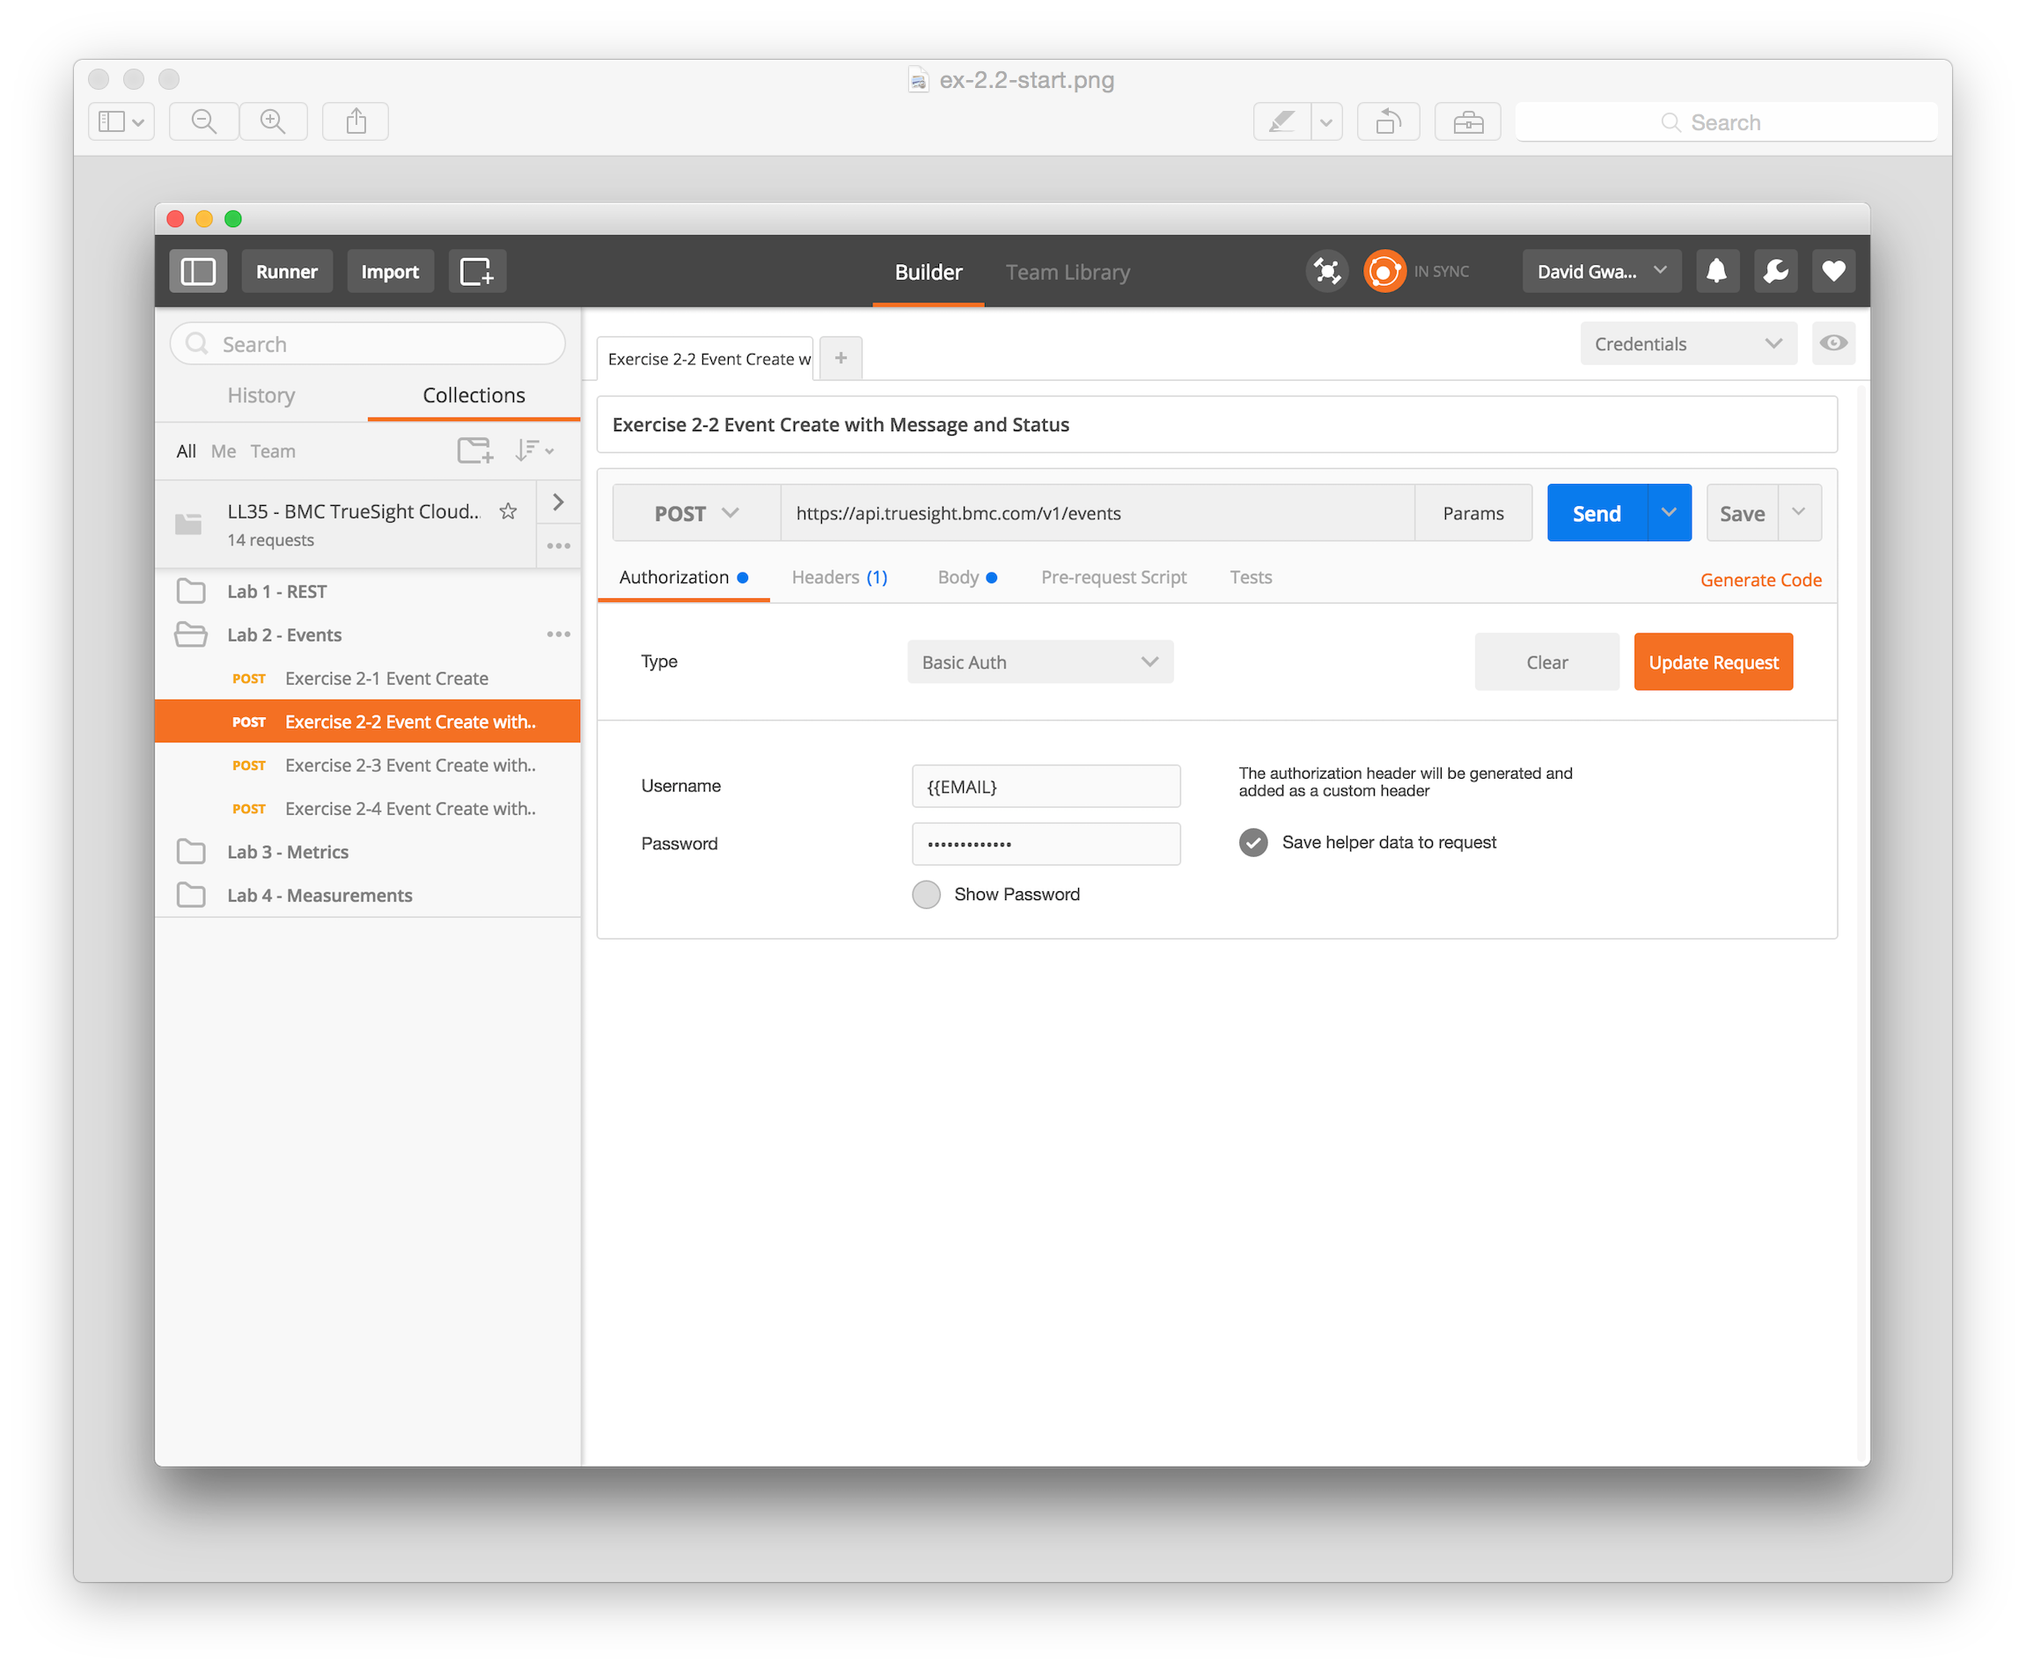
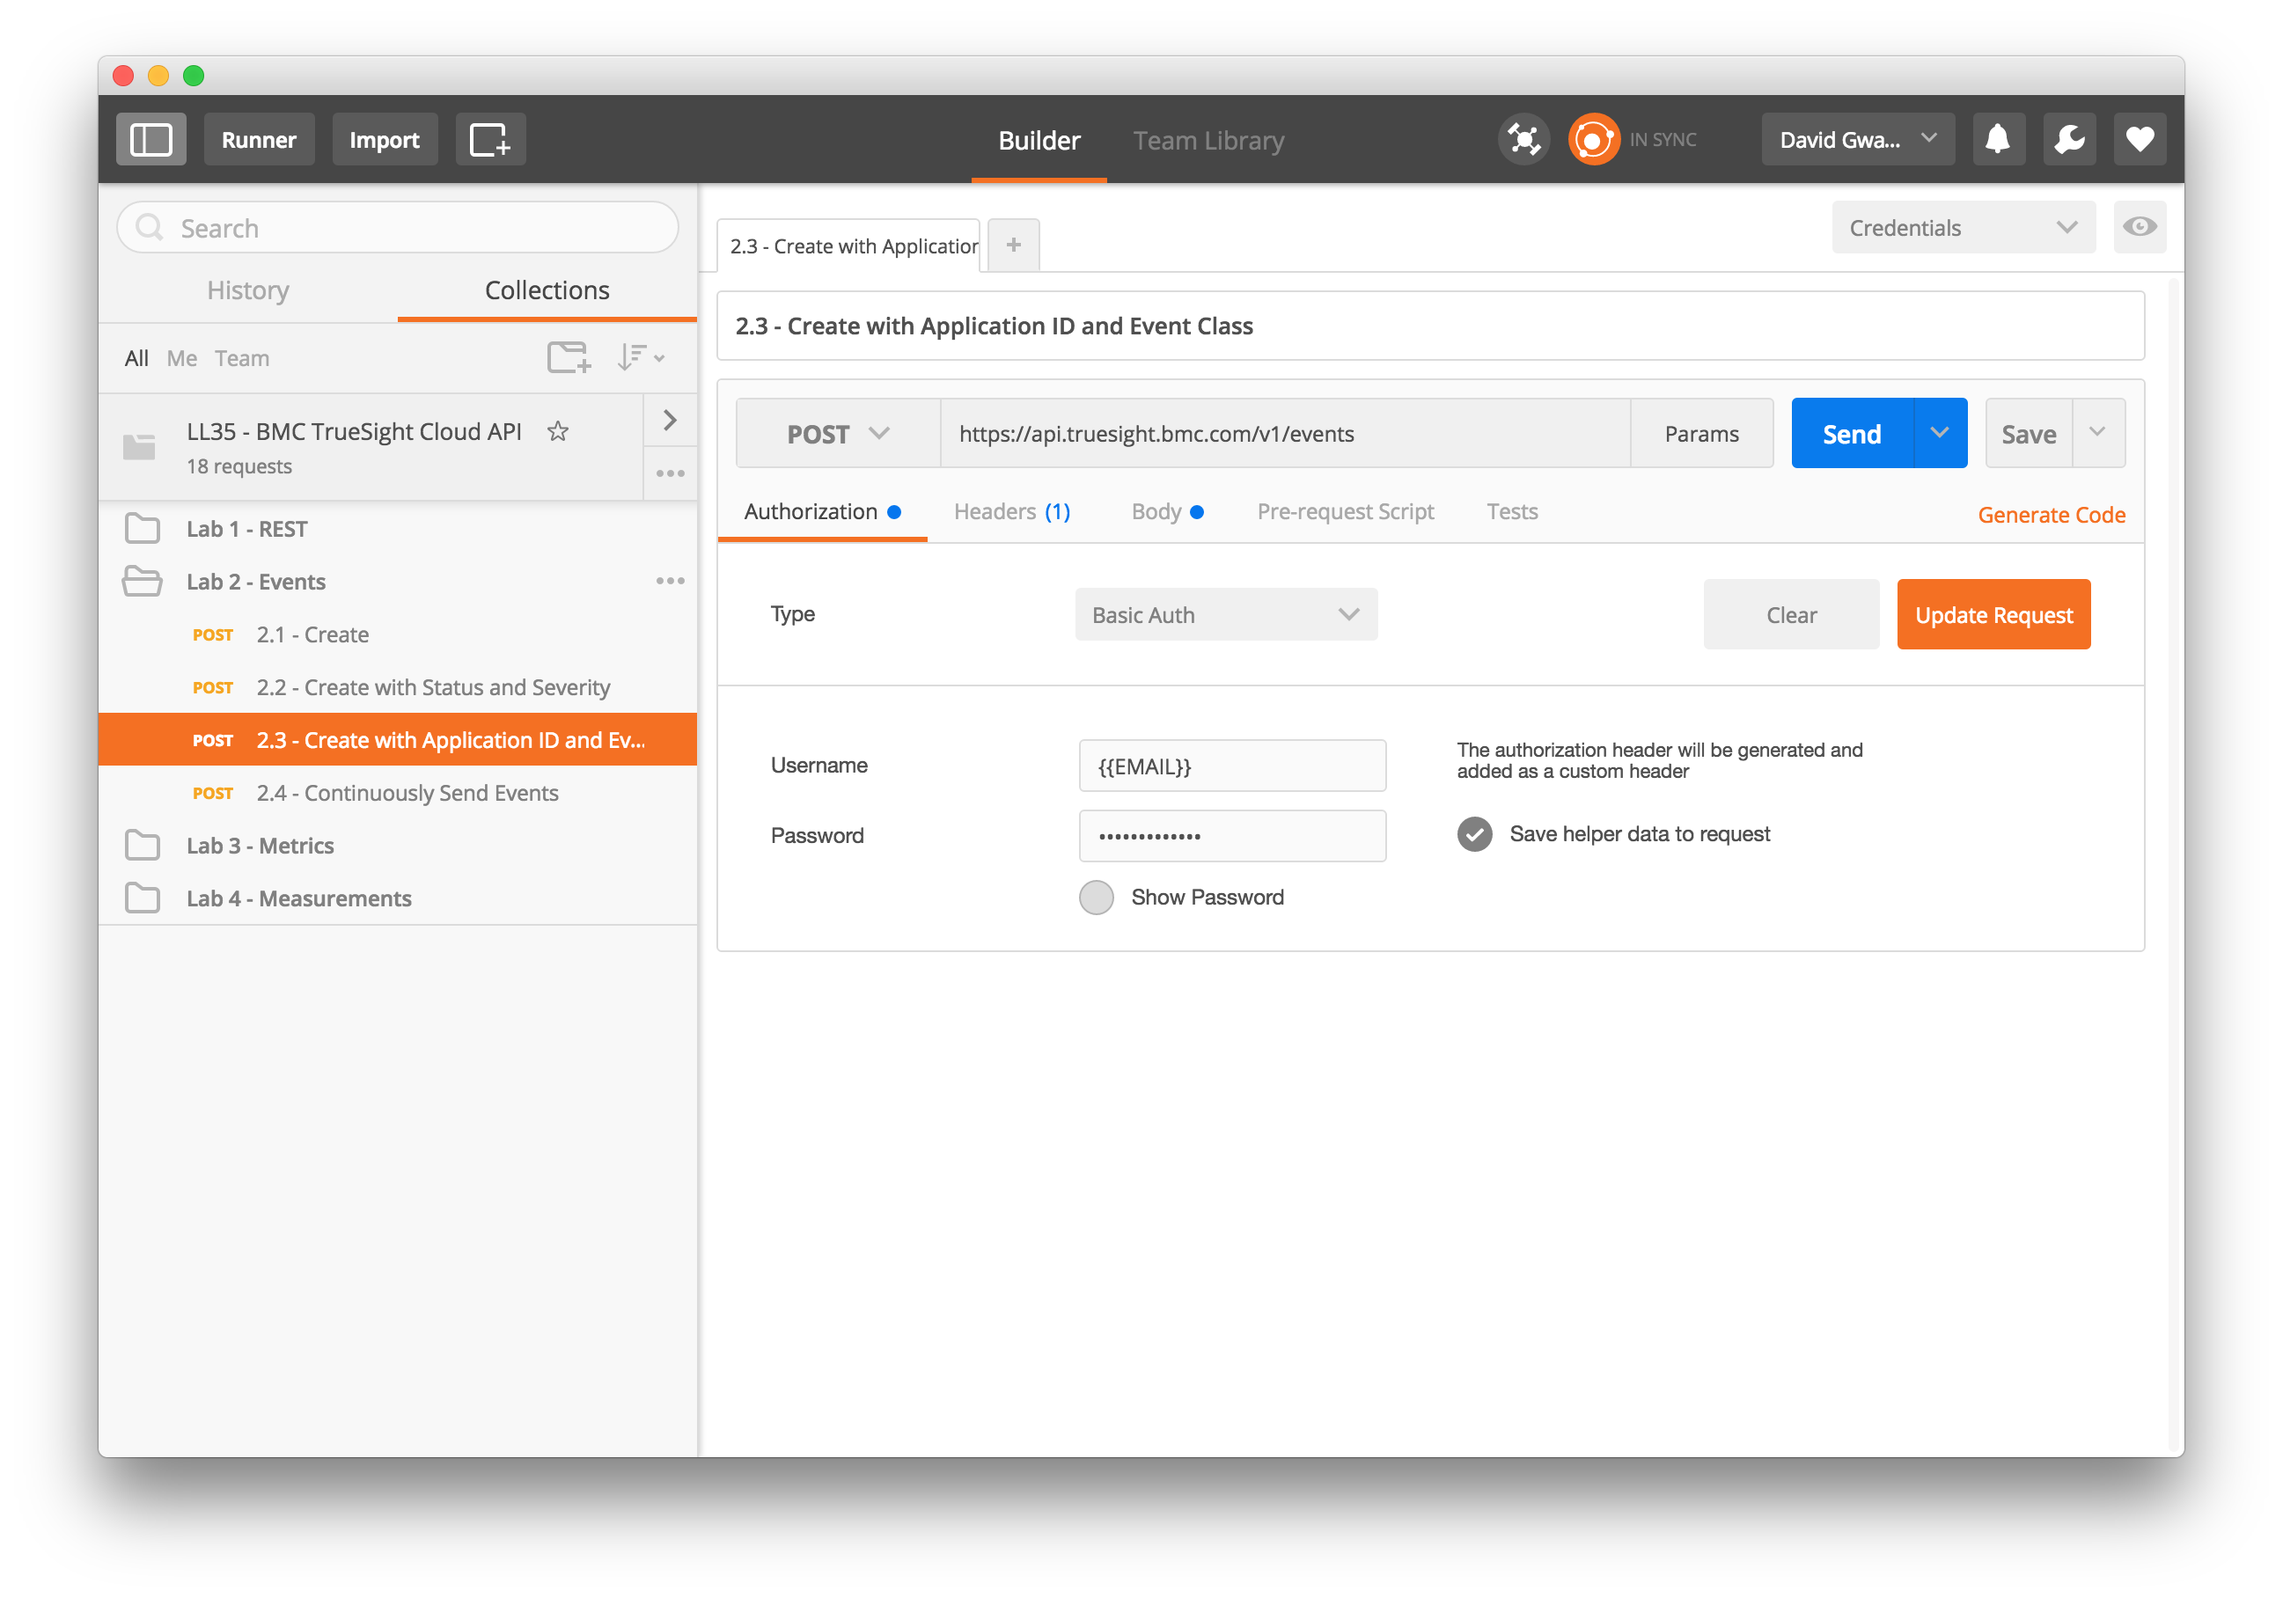
Complete events

diff --git a/events.md b/events.md
@@ -80,19 +80,19 @@ of data to generate an event consists of:
 
 - **title** - Short descriptive text about the event
 - **fingerprint** - List of event fields that define _unique_ event instances.
-- **source** - Originiation of the event. Typically
+- **source** - Originiation of the event. Typically the hostname or ip address in which this event refers.
 
-1. Click on _Exercise 2.1 Event Create_ in the folder _Lab 2 - Events_
+1. Click on _2.1 Event Create_ in the folder _Lab 2 - Events_
 
     ![Exercise 2.1](img/lab2/ex-2.1-start.png)
     
-2. Click on the _body_ tab to view the JSON document that contains the minimum required fields to create an event
+2. Click on the _body_ tab to view the JSON document that contains the minimum required fields to create an event:
 
     ![Exercise 2.1](img/lab2/ex-2.1-body.png)
     
 3. Click on the _Authorization_ tab:
 
-    ![Exercise 2.1](img/lab2/ex-2.1-body.png)
+    ![Exercise 2.1](img/lab2/ex-2.1-authorization.png)
     
 4. Click on the _Update Request_ button to add the authorization header to the request from the _credentials_
 environment previously configured.
@@ -107,39 +107,116 @@ and use your credentials to login.
 
 7. In the event list you can see the generated event:
 
-    ![Exercise 2.1](img/lab2/ex-2.1-sent.png)
+    ![Exercise 2.1](img/lab2/ex-2.1-events.png)
     
 8. Observe that _Title_ and the _Source_ that which was included in the JSON document occupies
 the _Title_ and _Source Ref_ respectively. The _Status_,  _Type_, and _Severity_ are not known since they were not specified.
 
-9. Also of note is the status code returned is 202 rather than typical.
+9. Also of note is the status code returned is 202 rather than the typical 200. **TODO** How to answer this in a
+positive way or get fixed.
 
 
-### Exercise 2.2 - Event Create with Message and Status
+### Exercise 2.2 - Event Create with Status and Severity
 
-1. Click on _Exercise 2-2 Event Create with Message and Status_ from _Lab 2 - Events_
-2. Click on _Send_ button
+Each event instance has an associated status and severity which provide additional state information about the event.
 
-![Exercise 2.2](img/lab2/ex-2.2-start.png)
+Status and severity are free form text values which can take on any desired values.
 
-### Exercise 2.3 - Event Create with Event Class
+Typical values for Status are:
 
-1. Click on _Exercise 2.3 Event Create with Event Class_
-2. Click on _Send_ button
+- `OPEN`
+- `CLOSED`
+- `ACKNOWLEDGED`
+- `OK`
 
-![Exercise 2.3](img/lab2/ex-2.3-start.png)
+When an event is marked as `CLOSED` further matching raw events will result in new events.
+
+Typical values for Severity are:
+
+- `INFO`
+- `WARN`
+- `ERROR`
+- `CRITICAL`
+
+1. Click on _2.2 - Create with Status and Severity_ from folder _Lab 2 - Events_
+
+    ![Exercise 2.2](img/lab2/ex-2.2-start.png)
+    
+2. Click on the _body_ tab to view the contents of the JSON document:
+
+    ![Exercise 2.2](img/lab2/ex-2.2-body.png)
+
+3. Click on the _Authorization_ tab:
+
+    ![Exercise 2.2](img/lab2/ex-2.2-authorization.png)
+    
+4. Click on the _Update Request_ button to add the authorization header to the request from the _credentials_
+environment previously configured.
+    
+
+5. Click on _Send_ button and observe the output:
+
+    ![Exercise 2.2](img/lab2/ex-2.2-sent.png)
+
+6. View event in event list:
+
+    ![Exercise 2.2](img/lab2/ex-2.2-events.png)
+
+
+### Exercise 2.3 - Event Create with Application Id and Event Class
+
+Two additional fields `Application Id` and `Event Class` are used to populate the _App_ and _Type_ fields
+in the event display respectively.
+
+App and Type provide additional means to filter to specific set of events.
+
+1. Click on _2.3 - Create with Application ID and Event Class_ from folder _Lab 2- Events_
+
+    ![Exercise 2.3](img/lab2/ex-2.3-start.png)
+    
+2. Click on the _body_ tab to view the contents of the JSON document:
+
+    ![Exercise 2.2](img/lab2/ex-2.3-body.png)
+    
+3. Update the authorization header as done in previous exercises.
+    
+4. Click on _Send_ button
+
+    ![Exercise 2.3](img/lab2/ex-2.3-start.png)
 
 ### Exercise 2.4 - Continuously Send Events
 
-1. Launch _Runner_
-2. Click on _TrueSight Intelligence API Lab -> Events_ button
-3. Set _Iteration_ to the number of events to send
-4. Set _Dely_ to number of milli-seconds between events
-5. Click on _Start Test_ to send a continuous flow of events
+1. Launch _Runner_ button in the upper right corner of the browser window:
 
-![Exercise 2.4](img/lab2/ex-2.4-start.png)
+    ![Exercise 2.4](img/lab2/ex-2.4-runner.png)
 
+2. Under current run select _Lab 2 - Events_.
 
+    ![Exercise 2.4](img/lab2/ex-2.4-run.png)
+    
+2. From the environment drop down select _credentials_.
+
+    ![Exercise 2.4](img/lab2/ex-2.4-env.png)
+    
+2. Set _Iteration_ to the number of times to send:
+
+    ![Exercise 2.4](img/lab2/ex-2.4-iteration.png)
+    
+3. Set _Delay_ to number of milli-seconds between events
+
+    ![Exercise 2.4](img/lab2/ex-2.4-delay.png)
+    
+4. Click on _Start Test_ to send a continuous flow of events
+
+    ![Exercise 2.4](img/lab2/ex-2.4-env.png)
+    
+6. Click on _TrueSight Intelligence API Lab -> Events_ button
+
+6. To observe the event in TrueSight Intelligence navigate to:
+[https://truesight.bmc.com/intelligence/#/events/list](https://truesight.bmc.com/intelligence/#/events/list)
+and use your credentials to login.
+
+    ![Exercise 2.4](img/lab2/ex-2.4-events.png)
 
 
 
